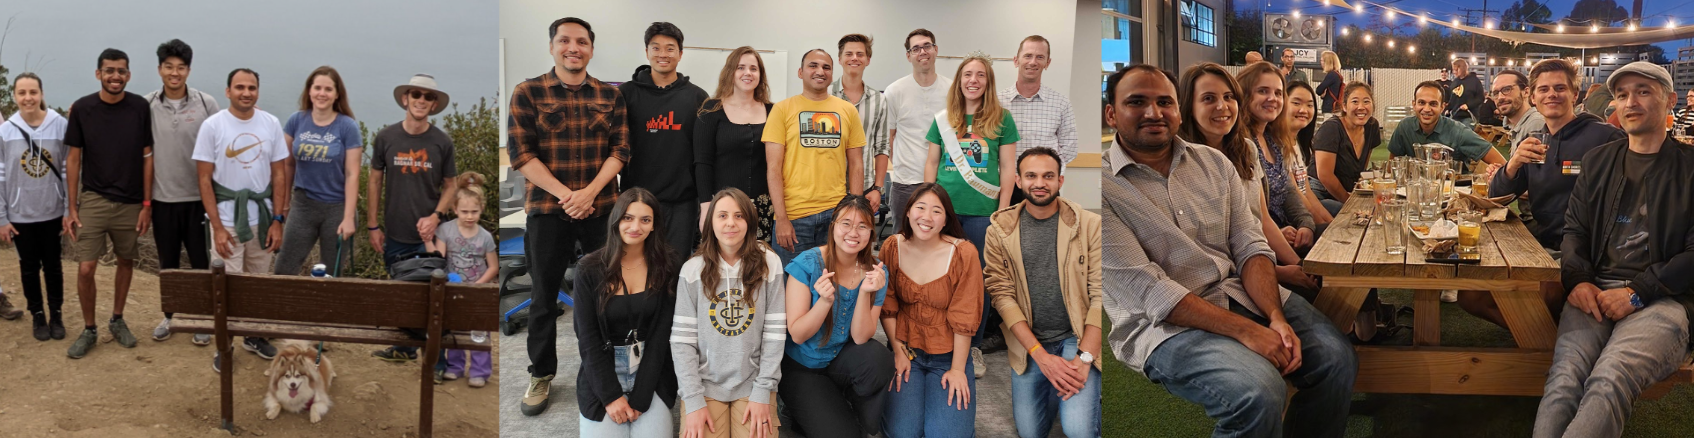
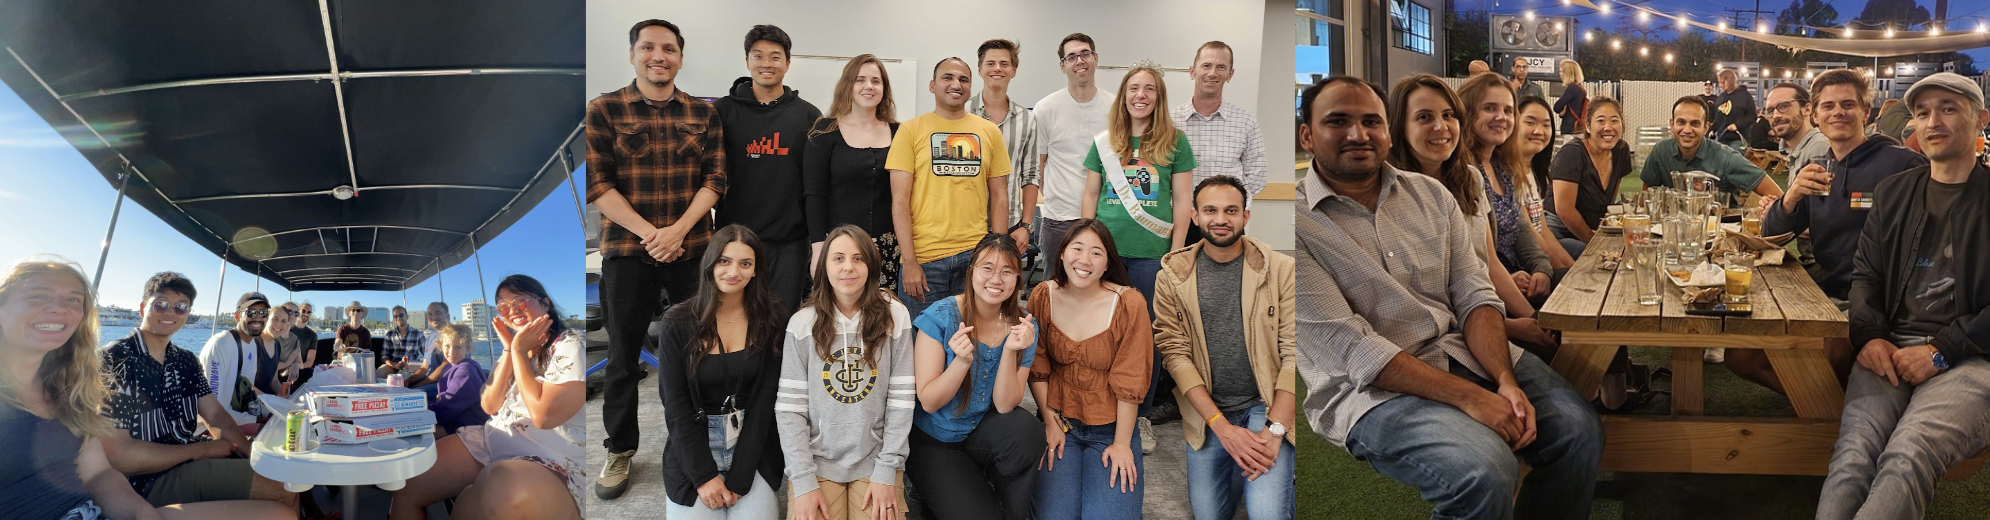
Update ppl (#27)
* Update people.md

* Update index.md

* Add files via upload

* Delete assets/img/group-2.png

* Add files via upload

diff --git a/pages/people.md b/pages/people.md
@@ -50,6 +50,8 @@ Swapnil received his M.Sc. Integrated degree in Chemistry from IIT Kanpur, India
 
 Martin Amezcua graduated from CSUF with a B.S. in Biochemistry. During this time, under the tutelage of Dr. Nicholas Salzameda, his research work involved computational modeling and docking, synthesis, and evaluation of dipeptide small molecules as potential counter measures against Botulinum Neurotoxin-A. He entered UCI’s Pharmaceutical Sciences PhD program in 2018, where he joined the Mobley Lab. His current work is primarily on the SAMPL (Statistical Assessment of the Modeling of Proteins and Ligands) challenges to test and study computational methods and tools for predicting binding thermodynamics of host-guest systems to help improve their accuracy for computer aided drug design.
 
+<br />
+<br />
 
 ### **Chris Zhang (Chemistry)** -
 
@@ -61,8 +63,6 @@ Chris Zhang graduated from Harvard University with a Bachelors in Chemistry. Dur
 
 <br />
 <br />
-<br />
-
 
 ### **Trevor Gokey (Chemistry) (Joint with Ioan Andricioaei)** -
 
@@ -70,6 +70,7 @@ Chris Zhang graduated from Harvard University with a Bachelors in Chemistry. Dur
 
 Trevor Gokey earned an MS in Computer Science at San Francisco State University and a BA in Psychology from CSU Long Beach. He works with OpenFF to design force fields, where he focuses on efficient ways to encode and search chemical space. His interests are at the intersection of high performance computing and multiscale modeling. Outside of research, Trevor enjoys roasting coffee and perfecting espresso, building clusters, and pipe organs.
 
+<br />
 <br />
 
 ### **Anjali Dixit (Pharmaceutical Sciences) (Joint with Brian Paegel)** -
@@ -80,6 +81,8 @@ Anjali Dixit is a Pharmaceutical Sciences Ph.D. student who is co-advised by Dr.
 
 [LinkedIn](https://www.linkedin.com/in/anjali-dixit/) - [ORCiD](https://orcid.org/0000-0002-4997-8005)
 
+<br />
+<br />
 
 ### **Ana Caldaruse (Pharmaceutical Sciences)** -
 
@@ -89,14 +92,19 @@ Ana graduated with her B.S. in Biochemistry and Molecular Biology from UC Santa 
 
 [UCI email](acaldaru@uci.edu) - [GitHub](https://github.com/AnaCaldaruse) - [LinkedIn](https://www.linkedin.com/in/ana-maria-caldaruse-a6253183/) - [ORCiD](https://orcid.org/my-orcid?orcid=0000-0002-8239-5637)
 
-### **Aakankschit Nandkeolyar (Pharmaceutical Sciences)** -
+<br />
+<br />
 
+### **Aakankschit Nandkeolyar (Pharmaceutical Sciences)** -
 
 <img src="{{site.baseurl}}/assets/img/anandkeo.jpeg" alt="anandkeo" width="200" style="float:left;padding-right: 20px;padding-bottom: 5px">
 
 Aakankschit (AK) Nandkeolyar graduated with a B.S. and M.S. in Biomedical Engineering from Drexel University in Philadelphia. He completed an internship with the automation team at GLaxoSmithkline (GSK) where he found an interest in the pharmaceutical sciences. AK worked on curating a dataset of physical properties for the blind challenge series SAMPL (Statistical Assessment of Modeling of Proteins and Ligands). AK continued his collaboration with GSK through his graduate research at Drexel, which focused on building machine learning models to predict clinical outcomes in patients based on data obtained from quantitative systems pharmacology models. At the Mobley Lab, he continues to work on the SAMPL project evaluating different modeling methods for accuracy in predicting physical properties.
 
 [LinkedIn](https://www.linkedin.com/in/aakankschit-nandkeolyar-838b0b126/)
+
+<br />
+<br />
 
 ### **Meghan Osato (Pharmaceutical Sciences)** -
 
@@ -106,6 +114,14 @@ Meghan Osato graduated from UCI with a B.S. in Biological Sciences and a B.S. in
 
 [LinkedIn](https://www.linkedin.com/in/meghan-osato-bb3b06153/ )
 
+<br />
+<br />
+
+## **Undergraduate Students**
+
+### **Melissa Plata (Pharmaceutical Sciences)** 
+### **Evien Cheng (Pharmaceutical Sciences)**
+### **Jennifer Huang (Pharmaceutical Sciences)**
 
 ## **Alumni**
 
@@ -119,7 +135,7 @@ Meghan Osato graduated from UCI with a B.S. in Biological Sciences and a B.S. in
 |Dr. Gaetano Calabró|Postdoc (2017)|Scientific software development with OpenEye Scientific Software in Santa Fe. Continues to collaborate with the Mobley Lab on MD-related software development.|
 |Dr. Sukanya Sasmal| Postdoc (2017-2019)|pharma; molecular modeling|
 |Dr. Lea El Khoury|Postdoc (2017-2021)|Team Leader in Molecular Modeling at Qubit Pharmaceuticals|
-|Dr. Yunhui Ge | Postdoc (2020-2022) | Postdoc, Janssen Pharmaceuticals |
+|Dr. Yunhui Ge | Postdoc (2020-2022) | Scientist at Alkermes |
 |Dr. Mary Pitman | Postdoc (2021-2023) | Scientist at Sandbox AQ | 
 |------------|--------------|----------------|
 |Dr. Pavel Klimovich|Graduate Student (2009-2015)|Pavel is a man of mystery; he sends us postcards from random parts of the world, but he’s a man of secrecy and we have no idea what he is doing, other than that he is still in science somewhere.|
@@ -127,14 +143,14 @@ Meghan Osato graduated from UCI with a B.S. in Biological Sciences and a B.S. in
 |Dr. Camilla Zenette|Graduate Student (2013-2019)|Bioinformatician, Agendia in the Irvine area|
 |Dr. Guilherme D. R. Matos|Graduate Student (2013-2019)|Postdoc, Prof. Robert C. Rizzo’s group at Stony Brook University in New York. Advancing docking techniques for predicting protein-ligand binding interactions.|
 |Dr. Nathan Lim| Graduate Student (2014-2019)|Scientist, Janssen Pharmaceuticals in San Diego|
-|Dr. Kalistyn Burley| Graduate Student (2015-2020)|Computational Chemist,Neomorph|
+|Dr. Kalistyn Burley| Graduate Student (2015-2020)|Applications Scientist at OpenEye, Cadence Molecular Sciences|
 |Dr. Caitlin Bannan|Graduate Student (2014-2019)|Applications Scientist, OpenEye Scientific Software Inc. Developing methods for crystal structure prediction using machine learning.|
 |Dr. Sam Gill|Graduate Student (2014-2020)|Ventus Pharma, molecular modeling.|
 |Dr. Victoria Lim| Graduate Student (2015-2020)| Senior Technical Writer, Imply|
-|Dr. David Wych|Graduate Student (2016-2021)|Scientist, Los Alamos National Laboratory|
+|Dr. David Wych|Graduate Student (2016-2021)|Scientific Developer II — cryoEM — OpenEye Scientific, Cadence Molecular Sciences|
 |Jessica Maat | Graduate Student (2017-2022) | TBA |
 |Dr. T. Danielle Bergazin | Graduate Student (2017-2022) | Senior Cheminformatics Engineer, Booz Allen Hamilton |
-|Oahn Tran |Graduate Student (2018-2023)|Chemiformatician|
+|Oanh Tran |Graduate Student (2018-2023)|Harmonic Discovery Cheminformatics Intern|
 |Dr. Hannah Baumann | Graduate Student (2018-2023) | Postdoc at OpenFreeEnergy |
 |-------------|-------------|--------------|
 |Anasuya Kolavennu| Masters Student (UNO)|She is currently a high school teacher in India|
@@ -145,30 +161,15 @@ Meghan Osato graduated from UCI with a B.S. in Biological Sciences and a B.S. in
 |Zuzana Jandova|Visiting Scholar (2018)|From Chris Oostenbrink’s group in Vienna|
 |Max Riquelme|Visiting Scholar (2017)|From Esteban Vöhringer-Martinez’s group in Chile|
 |Stefania Evoli|Visiting Scholar|Application Scientist, Chemical Computing Group.|
-|Daan Jiskoot |Visiting Scholar|From University of Leiden|
-|Linde Schoenmaker |Visiting Scholar|From University of Leiden|
+|Daan Jiskoot |Visiting Scholar|Masters student from University of Leiden|
+|Linde Schoenmaker |Visiting Scholar|PhD student from University of Leiden|
 |-------------|-------------|--------------|
+|Mel Bedolla Loaiza | Undergraduate student | TBA |
 |Jordan Ehrman | Undergraduate student | Ph.D. student, University of Washington |
-|Daisy Kyu|Undergraduate Student|Finished her B.S. degree in Pharmaceutical Sciences and is in pharmacy school at the University of Southern California.|
-|Nam Thi|Undergraduate Student|Finished his B.S. degree in Pharmaceutical Sciences and is in pharmacy school at Loma Linda University School of Pharmacy.|
-|Kevin Hoang|undergraduate Student|Finished his B.S. degree in Pharmaceutical Sciences and is pursuing pharmacy school.|
-|Karisa Wymer|Undergraduate Student|Finished her B.S. degree in Pharmaceutical Sciences at UCI and is attending Pharmacy school at University of California, San Francisco.|
-|Kim Keyes|Undergraduate Student (UNO)|Chemical analyst at Eurofins in New Orleans.|
-|Vivian Jaber|Undergraduate Student (UNO)|MD/Ph.D. student at Louisiana State University in New Orleans.|
-|Sheldon Williams|Undergraduate Student (UNO)|Finished his undergraduate degree at Southern University in New Orleans.|
-|Yu Xuan “Luna” Liu|Undergraduate Student (UNO)|Graduate student in oriental medicine.|
-|Christopher D. Savoie|Undergraduate Student (UNO)|Completed his M.S. degree in Chemistry at Boston University with Tom Keyes and is working as a Nuclear Officer for the U.S. Navy.|
-|-------------|-------------|--------------|
-|Anasuya Kolavennu| Masters Student (UNO)|She is currently a high school teacher in India|
-|Jessica Fuselier|Masters Student (UNO)|She is currently pursuing a second M.S. degree in bioinformatics at IUPUI.|
-|Hanh Nguyen|Masters Student|Obtained a position at a R&D laboratory.|
-Noora Siddiqui|Masters Student|Currently working in Baylor College of Medicine as a Programmer Analyst.|
-|Lily Wang| Fullbright Visiting Scholar (2021)|Science Lead, Open Force Field Initiative|
-|Zuzana Jandova|Visiting Scholar (2018)|From Chris Oostenbrink’s group in Vienna|
-|Max Riquelme|Visiting Scholar (2017)|From Esteban Vöhringer-Martinez’s group in Chile|
-|Stefania Evoli|Visiting Scholar|Application Scientist, Chemical Computing Group.|
-|-------------|-------------|--------------|
-|Jordan Ehrman | Undergraduate student | Ph.D. student, University of Washington |
+|Byron Tjanaka | Undergraduate student | TBA |
+|Amanda Nguyen| Undergraduate student | PhD student, Pharmacological Sciences UCI|
+|Linh Nguyen | Undergraduate student | PharmD student, Chapman University|
+|James Hariyanto| Undergraduate student | PharmD student, Western University|
 |Daisy Kyu|Undergraduate Student|Finished her B.S. degree in Pharmaceutical Sciences and is in pharmacy school at the University of Southern California.|
 |Nam Thi|Undergraduate Student|Finished his B.S. degree in Pharmaceutical Sciences and is in pharmacy school at Loma Linda University School of Pharmacy.|
 |Kevin Hoang|undergraduate Student|Finished his B.S. degree in Pharmaceutical Sciences and is pursuing pharmacy school.|

diff --git a/index.md b/index.md
@@ -3,7 +3,7 @@ layout: home
 title: Home
 ---
 
-<img src="{{site.baseurl}}/assets/img/group-2.png" alt="group" width="5000">
+<img src="{{site.baseurl}}/assets/img/group-2.png" alt="group" width="9000">
 
 Our research focuses on applying computational and theoretical methods to understand and quantitatively predict fundamental biological processes such as protein-ligand binding, solvation, and solubility. We seek to provide an atomically detailed understanding of these processes at a level of accuracy that can be useful in industrial applications.
 
